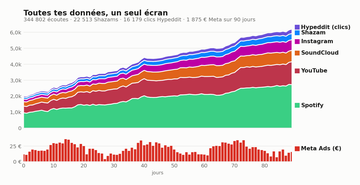
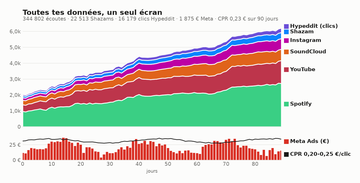
R515 : figures d'exemple — CPR (0,20-0,25 €) superposé à la bande Meta sur son axe (exception nommée, axes depuis 0) ; prévision mesurée en trait plein puis prévue en pointillé, bosse Release Radar après son déclenchement ; barres hachurées « conseillé » retirées, remplacées par « couper à l'entrée 

diff --git a/tools/dev/make_example_charts.py b/tools/dev/make_example_charts.py
@@ -32,8 +32,9 @@ Design rules applied (from the `dataviz` skill, validated not eyeballed)
   `validate_palette.js` on the light surface: all checks PASS, worst adjacent CVD
   ΔE 9.1, normal-vision ΔE 22.9. The contrast WARN on aqua/yellow obliges the
   **relief rule** — hence a visible direct label on every series, always;
-* **one dual axis at most, and only in `meta_x_s4a`** (R438, 2026-10-07): counts on
-  the left, euros on the right, both from zero. It was two stacked panels until the
+* **one dual axis at most, and only in `meta_x_s4a`** (R438, 2026-10-07) and in the
+  Meta band of `dashboard_global` for the CPR (R515): both from zero. In `meta_x_s4a`,
+  counts on the left, euros on the right. It was two stacked panels until the
   owner read them as incomprehensible;
 * text wears text tokens (ink), never the series colour; grid recessive; thin marks;
   2 px surface gap between stacked fills.
@@ -192,7 +193,7 @@ def dashboard_global() -> Path:
     colours = [BLUE, ORANGE, AQUA, YELLOW, SHAZAM, HYPEDDIT]
     spend = np.clip(12 + 18 * np.sin(days / 9) ** 2 + rng.normal(0, 3, 90), 0, None)
 
-    fig, (ax, axm) = plt.subplots(2, 1, figsize=(9, 4.62), sharex=True,
+    fig, (ax, axm) = plt.subplots(2, 1, figsize=(9, 4.77), sharex=True,
                                   gridspec_kw={"height_ratios": [4, 1], "hspace": 0.12})
     ax.stackplot(days, *series.values(), colors=colours,
                  # 2 px surface gap between stacked fills — the segments must not
@@ -214,7 +215,20 @@ def dashboard_global() -> Path:
     axm.set_ylim(0, spend.max() * 1.15)
     axm.yaxis.set_major_formatter(FuncFormatter(lambda v, _p: f"{v:.0f} €"))
     axm.yaxis.set_major_locator(plt.MaxNLocator(2))
-    _series_tag(axm, 1.02, 0.5, "Meta Ads (€)", META)
+    _series_tag(axm, 1.02, 0.72, "Meta Ads (€)", META)
+    # R515 (X3 II) : le CPR, sur SON axe à droite de la bande Meta — un ratio en €
+    # par clic qui oscille autour de 0,20-0,25 €, jamais sur l'axe des dépenses.
+    cpr = 0.225 + 0.025 * np.sin(days / 6) + rng.normal(0, 0.004, 90)
+    axc = axm.twinx()
+    axc.plot(days, cpr, color=INK, linewidth=1.3)
+    axc.set_ylim(0, 0.30)   # from zero, like every dual axis here
+    # No tick labels: they would sit on the series tags. The scale is in the tag.
+    axc.set_yticks([])
+    for side in ("top", "left", "bottom", "right"):
+        axc.spines[side].set_visible(False)
+    axc.tick_params(length=0, labelsize=8, colors=INK_MUTED)
+    axc.grid(False)
+    _series_tag(axm, 1.02, 0.22, "CPR 0,20-0,25 €/clic", INK)
 
     listens = int(sum(s.sum() for k, s in series.items() if k in _LISTEN_SOURCES))
     n_shazam = int(series["Shazam"].sum())
@@ -222,7 +236,8 @@ def dashboard_global() -> Path:
     ax.set_title("Toutes tes données, un seul écran", fontsize=14,
                  fontweight="700", color=INK, loc="left", pad=18)
     ax.text(0, 1.035, f"{_n(listens)} écoutes · {_n(n_shazam)} Shazams · "
-            f"{_n(n_clicks)} clics Hypeddit · {_n(int(spend.sum()))} € Meta sur 90 jours",
+            f"{_n(n_clicks)} clics Hypeddit · {_n(int(spend.sum()))} € Meta · "
+            f"CPR {cpr.mean():.2f} € sur 90 jours".replace(".", ","),
             transform=ax.transAxes, fontsize=10, color=INK_MUTED)
     ax.set_xlim(0, days[-1])
     ax.set_ylim(0, ymax * 1.04)
@@ -231,109 +246,117 @@ def dashboard_global() -> Path:
 
 
 def discover_weekly_prediction() -> Path:
-    """Trois probabilités de déclenchement — Release Radar, DW, Radio — et le palier 100 %.
+    """Trois probabilités de déclenchement — Release Radar, DW, Radio — mesurées puis prévues.
 
-    R455 (2026-10-07, C2) : trois courbes de probabilité, en prévision seule.
-    R480 (2026-10-09, W3) : « identifier le palier de 100 % par playlist (RR 100 %
-    atteint, DW 64 % pas encore, Radio 41 %) ». Le palier est une ligne : la marque
-    d'un NIVEAU, pas d'une série. Release Radar l'atteint — un point plein à l'endroit
-    où il le touche ; les deux autres finissent dessous, et leur étiquette dit ce qui
-    leur manque. Tout est pointillé : rien n'y est mesuré.
+    R455 (2026-10-07, C2) : trois courbes de probabilité. R480 (2026-10-09, W3) : le
+    palier 100 % par playlist, une ligne — la marque d'un NIVEAU, pas d'une série.
+    R515 (2026-10-11, X3 II) : « la bosse Release Radar APRÈS le déclenchement, mesuré
+    en trait plein et prédit en pointillé ». À gauche du trait « aujourd'hui », ce qui
+    a été MESURÉ (plein) ; à droite, la prévision (pointillé, avec sa zone
+    d'incertitude). Release Radar a touché le palier — un point plein — puis la
+    prévision le fait redescendre à la sortie de sa fenêtre (0-35 j) : c'est la bosse.
+    Discover Weekly et Radio montent encore, sous le palier.
     """
+    past = np.linspace(-21, 0, 85)
     ahead = np.linspace(0, 28, 113)   # fine grid: a steep start must stay a curve
-    reach = ahead / ahead[-1]
-    curves = {   # nom: (niveau atteint à J+28, couleur, vitesse)
-        "Release Radar":   (1.00, BLUE, 0.45),
-        "Discover Weekly": (0.64, AQUA, 0.9),
-        "Radio":           (0.41, YELLOW, 1.4),
+    span = np.concatenate([past, ahead[1:]])
+    t = (span + 21) / 49               # 0 → 1 over the whole picture
+
+    def _rr(x: np.ndarray) -> np.ndarray:
+        rise = 100 * (0.10 + 0.95 * np.clip((x + 21) / 15, 0, 1) ** 0.8)
+        fall = np.where(x > 9, 100 * np.exp(-((x - 9) / 11) ** 2), 100)
+        return np.minimum(np.minimum(rise, 100), fall)
+
+    curves = {   # nom: (courbe sur toute la période, couleur)
+        "Release Radar":   (_rr(span), BLUE),
+        "Discover Weekly": (100 * (0.06 + 0.58 * t ** 1.3), AQUA),
+        "Radio":           (100 * (0.04 + 0.37 * t ** 1.8), YELLOW),
     }
-    fig, ax = plt.subplots(figsize=(9, 4.86))
+    cut = len(past)
+    fig, ax = plt.subplots(figsize=(9, 5.38))
     ax.axhline(100, color=INK_MUTED, linewidth=1, linestyle=(0, (5, 4)))
-    ax.text(0.4, 98, "palier 100 % : la playlist est déclenchée", fontsize=9,
-            color=INK_MUTED, va="top")
-    for name, (top, colour, speed) in curves.items():
-        # Release Radar reaches the floor near J+19, then holds: once triggered, it is.
-        if top >= 1.0:
-            p = np.minimum(100, 100 * (0.08 + 0.92 * 1.19 * reach ** speed))
-        else:
-            p = 100 * (0.08 + (top - 0.08) * reach ** speed)
-        ax.plot(ahead, p, color=colour, linewidth=2.2, linestyle=(0, (4, 2.5)))
-        # Once on the floor, no more doubt: the band closes where the curve holds.
-        spread = np.where(p >= 100, 0, 9 * reach)
-        ax.fill_between(ahead, np.clip(p - spread, 0, 100), np.clip(p + spread, 0, 100),
+    # Under the flat stretch where Release Radar holds the floor: nothing crosses it.
+    ax.text(-5.5, 97, "palier 100 % = déclenchée", fontsize=9,
+            color=INK_MUTED, va="top", ha="left")
+    ax.axvline(0, color=GRID, linewidth=1.2)
+    ax.text(0.3, 4, "aujourd'hui", fontsize=9, color=INK_MUTED, ha="left")
+    ax.text(-0.3, 4, "mesuré", fontsize=9, color=INK_MUTED, ha="right")
+    for name, (p, colour) in curves.items():
+        ax.plot(span[:cut], p[:cut], color=colour, linewidth=2.2)
+        fut = p[cut - 1:]
+        ax.plot(ahead, fut, color=colour, linewidth=2.2, linestyle=(0, (4, 2.5)))
+        spread = np.where(fut >= 100, 0, 9 * ahead / ahead[-1])
+        ax.fill_between(ahead, np.clip(fut - spread, 0, 100), np.clip(fut + spread, 0, 100),
                         color=colour, alpha=0.10, linewidth=0)
-        if p[-1] >= 100:
+        if (p >= 100).any():
             hit = int(np.argmax(p >= 100))
-            ax.plot([ahead[hit]], [100], marker="o", markersize=9, color=colour, clip_on=False)
-            tag = f"{name}  100 % ✓"
+            ax.plot([span[hit]], [100], marker="o", markersize=9, color=colour, clip_on=False)
+            tag = f"{name}  déclenché ✓ → {fut[-1]:.0f} %"
         else:
-            tag = f"{name}  {p[-1]:.0f} %"
-        ax.annotate(tag, xy=(ahead[-1], p[-1]), xytext=(ahead[-1] + 0.8, p[-1]),
+            tag = f"{name}  {fut[-1]:.0f} %"
+        ax.annotate(tag, xy=(ahead[-1], fut[-1]), xytext=(ahead[-1] + 0.8, fut[-1]),
                     va="center", fontsize=10, color=INK, fontweight="600",
                     annotation_clip=False)
-        ax.plot([ahead[-1] + 0.35], [p[-1]], marker="s", markersize=7, color=colour,
+        ax.plot([ahead[-1] + 0.35], [fut[-1]], marker="s", markersize=7, color=colour,
                 clip_on=False)
     _frame(ax)
     ax.yaxis.set_major_formatter(FuncFormatter(lambda v, _p: f"{v:.0f} %"))
+    ax.xaxis.set_major_formatter(FuncFormatter(lambda v, _p: f"J{v:+.0f}".replace("J+0", "J0")))
     ax.set_ylim(0, 100)
-    ax.set_xlim(0, ahead[-1])
-    ax.set_xlabel("jours à partir d'aujourd'hui", fontsize=9)
+    ax.set_xlim(span[0], ahead[-1])
+    ax.set_xlabel("jours (avant et après aujourd'hui)", fontsize=9)
     ax.set_title("Tes chances d'entrer dans les playlists algorithmiques",
                  fontsize=14, fontweight="700", color=INK, loc="left", pad=26)
-    ax.text(0, 1.035, "Probabilité prévue, jour par jour — la zone claire est l'incertitude",
+    ax.text(0, 1.035, "Trait plein : mesuré · pointillé : prévu, la zone claire est l'incertitude",
             transform=ax.transAxes, fontsize=10, color=INK_MUTED)
     return _save(fig, "prediction-discover-weekly.png")
 
 
+# Les fenêtres du modèle (`trigger_algo/_common/_verdict.py`, `_PHASES`) : Release
+# Radar 0-35 j, Discover Weekly 35-90 j, Radio après 90 j. Les conseils de la figure de
+# campagne se placent sur ces bornes ; un test vérifie qu'elles restent celles du modèle.
+DW_WINDOW = (35, 90)
+
+
 def meta_x_s4a() -> Path:
-    """La campagne au lancement, puis Discover Weekly et Radio qui déclenchent — UN graphique.
+    """La campagne au lancement, puis Discover Weekly et Radio — UN graphique.
 
     R438 : un seul graphique, un axe € à droite, les deux axes depuis zéro.
-    R480 (2026-10-09, W3) : « Meta € en rouge, CPR, Hypeddit clics (supprimer Hypeddit
-    visites), streams Spotify avec prédiction et déclenchement DW et Radio (deux pics),
-    prévisions qui montent ; montrer l'impact de la campagne au début de la release,
-    puis le déclenchement des algos et les prédictions ». L'histoire se lit de gauche
-    à droite : la dépense (barres rouges) pousse les écoutes dès la sortie, Discover
-    Weekly puis Radio les font bondir, et à droite du trait la projection monte avec
-    le budget conseillé (hachuré). Le CPR est un RATIO : il est écrit, pas tracé.
+    R480 (2026-10-09, W3) : Meta € en rouge, CPR, Hypeddit clics, streams Spotify avec
+    prédiction et déclenchement des algos. Le CPR est un RATIO : il est écrit, pas tracé.
+    R515 (2026-10-11, X3 II) : les barres hachurées « conseillé » sont retirées. À leur
+    place, deux conseils posés sur les fenêtres du modèle (`DW_WINDOW`) : « couper à
+    l'entrée en Discover Weekly » (le jour où DW déclenche, dans 35-90 j) et
+    « relancer avant la fenêtre Radio » (avant 90 j, dans la prévision).
     """
     rng = np.random.default_rng(7)
-    days = np.arange(42)
-    spend = np.zeros(42)
-    spend[0:16] = np.linspace(40, 22, 16) + rng.normal(0, 3, 16)
+    today, horizon = 62, 50
+    days = np.arange(today + 1)
+    dw_day, radio_day = 42, 96         # DW dans sa fenêtre, Radio juste après 90 j
+    relaunch = DW_WINDOW[1] - 10
+    assert DW_WINDOW[0] <= dw_day < DW_WINDOW[1] <= radio_day
+    spend = np.zeros(len(days))
+    spend[:dw_day] = np.linspace(38, 24, dw_day) + rng.normal(0, 3, dw_day)
     camp = spend > 0
-    clicks = np.clip(np.where(camp, spend * 8.5, 6) + rng.normal(0, 4, 42), 0, None)
+    clicks = np.clip(np.where(camp, spend * 4.5, 4) + rng.normal(0, 4, len(days)), 0, None)
     cpr = spend[camp].sum() / clicks[camp].sum()
 
-    # Écoutes : la campagne lève le niveau dès la sortie, puis deux pics — Discover
-    # Weekly à J+18, Radio à J+31 — chacun suivi d'un plateau plus haut que l'avant.
-    dw_day, radio_day = 18, 31
-
-    def _peak(day: int, height: float, settle: float) -> np.ndarray:
-        d = days - day
+    def _peak(x: np.ndarray, day: int, height: float, settle: float) -> np.ndarray:
+        d = x - day
         return np.where(d < 0, 0, height * np.exp(-d / 3.0) + settle * (1 - np.exp(-d / 2.0)))
 
     streams = (180 + 420 * (1 - np.exp(-days / 4.0)) * np.where(camp, 1, 0.82)
-               + _peak(dw_day, 900, 380) + _peak(radio_day, 700, 320)
-               + rng.normal(0, 18, 42))
+               + _peak(days, dw_day, 900, 380) + rng.normal(0, 18, len(days)))
     streams = np.clip(streams, 0, None)
-
-    horizon = 14
-    future = np.arange(days[-1], days[-1] + horizon + 1)
-    reach = (future - days[-1]) / horizon
-    forecast = streams[-1] * (1 + 0.45 * reach ** 0.9)
+    future = np.arange(today, today + horizon + 1)
+    forecast = (streams[-1] * (1 + 0.15 * (future - today) / horizon)
+                + _peak(future, radio_day, 700, 320))
 
     fig, ax = plt.subplots(figsize=(9, 3.82))
     axe = ax.twinx()
     ax.set_zorder(axe.get_zorder() + 1)
     ax.patch.set_visible(False)
-
     axe.bar(days, spend, color=META, width=0.75, alpha=0.55, linewidth=0)
-    # Le budget CONSEILLÉ, à droite du trait, hachuré : une recommandation, jamais
-    # une dépense mesurée (R455).
-    advised = 25.0
-    axe.bar(future[1:], np.full(horizon, advised), color="none", width=0.75,
-            edgecolor=META, hatch="////", linewidth=0.6, alpha=0.7)
     axe.set_ylim(0, spend.max() * 2.4)
     axe.set_ylabel("€ Meta / jour", fontsize=9, color=INK_MUTED)
     for side in ("top", "left", "bottom", "right"):
@@ -348,26 +371,31 @@ def meta_x_s4a() -> Path:
     ax.plot(days, clicks, color=HYPEDDIT, linewidth=1.6)
     _frame(ax)
     top = max(streams.max(), (forecast * 1.14).max())
-    ax.set_ylim(0, top * 1.22)
+    ax.set_ylim(0, top * 1.3)
     ax.set_ylabel("par jour", fontsize=9)
     ax.set_xlabel("jours depuis la sortie", fontsize=9)
     ax.set_xlim(0, future[-1])
     axe.set_xlim(0, future[-1])
-    ax.axvline(days[-1], color=GRID, linewidth=1)
+    ax.axvline(today, color=GRID, linewidth=1)
+    for edge in DW_WINDOW:
+        ax.axvline(edge, color=INK_MUTED, linewidth=0.8, linestyle=(0, (2, 3)))
+    ax.text(DW_WINDOW[0] + 1, top * 1.24, "fenêtre Discover Weekly →",
+            fontsize=8.5, color=INK_MUTED, ha="left", va="center")
+    ax.text(radio_day + 2, forecast[radio_day - today] * 1.16, "Radio (prévu)",
+            fontsize=9, color=INK_MUTED, ha="left")
 
-    for day, name in ((dw_day, "Discover Weekly\ndéclenché"), (radio_day, "Radio\ndéclenché")):
-        y = streams[day + 1]
-        ax.annotate(name, xy=(day + 1, y), xytext=(day + 1, y + top * 0.12),
+    advice = ((dw_day, streams[dw_day + 1], "couper à l'entrée\nen Discover Weekly"),
+              (relaunch, forecast[relaunch - today], "relancer avant\nla fenêtre Radio"))
+    for day, y, text in advice:
+        ax.annotate(text, xy=(day, y), xytext=(day - 9, y + top * 0.14),
                     fontsize=9.5, color=INK, fontweight="600", ha="center",
-                    arrowprops=dict(arrowstyle="-", color=INK_MUTED, linewidth=1))
+                    arrowprops=dict(arrowstyle="->", color=INK_MUTED, linewidth=1))
 
     _series_tag(ax, 0.02, 0.93, "Spotify (écoutes)", BLUE)
     _series_tag(ax, 0.02, 0.84, "Meta Ads (€, à droite)", META)
     _series_tag(ax, 0.02, 0.75, "Hypeddit (clics)", HYPEDDIT)
     ax.text(0.14, 0.53, f"CPR {cpr:.2f} € par clic".replace(".", ","),
             transform=ax.transAxes, fontsize=10, color=INK, fontweight="600", ha="center")
-    ax.text(0.765, 0.34, f"conseillé : {advised:.0f} €/j\n→ prévision en hausse",
-            transform=ax.transAxes, fontsize=9.5, color=INK, fontweight="600", ha="left")
 
     ax.set_title("Optimiser ton budget Meta Ads pour maximiser tes streams",
                  fontsize=14, fontweight="700", color=INK, loc="left", pad=26)

diff --git a/tests/test_the_welcome_figures_tell_the_three_promises.py b/tests/test_the_welcome_figures_tell_the_three_promises.py
@@ -14,8 +14,14 @@ Owner, 2026-10-07 (voice comments C1-C3):
 The figure is captured at `_save`, so the test reads the Axes the PNG is made of, not
 the source text that builds it.
 
+Owner, 2026-10-11 (X3 II, R515): the CPR over the Meta band; the prediction measured
+(solid) then forecast (dashed) with Release Radar's bump after its trigger; the hatched
+advised bars replaced by two annotations placed on the model's windows (`_verdict._PHASES`).
+
 Mutation record (2026-10-07): Shazam removed from the stack → red; Radio drawn solid →
 red; the advised-budget bars removed → red.
+(2026-10-11, R515): Release Radar held at 100 % → red; « couper » moved to day 30 → red;
+the CPR made flat → red; hatched Meta bars → red.
 """
 from __future__ import annotations
 
@@ -50,28 +56,59 @@ def _texts(ax) -> str:
 def test_shazam_and_hypeddit_are_stacked_and_meta_spend_sits_apart(built):
     """R455 : Shazam is the 5th band. R480 (W3) : Hypeddit clicks the 6th ; Meta is in
     euros, another unit, so it gets its own panel instead of joining the stack."""
-    ax, axm = built("dashboard_global").axes
+    ax, axm, *_ = built("dashboard_global").axes
     bands = [c for c in ax.collections if type(c).__name__ in {"PolyCollection", "FillBetweenPolyCollection"}]
     assert len(bands) == 6, f"{len(bands)} stacked bands, the owner asked for six"
     assert "Shazam" in _texts(ax) and "Hypeddit" in _texts(ax)
     assert axm.patches and "Meta" in _texts(axm), "Meta spend has no panel of its own"
 
 
-def test_the_prediction_is_three_forecast_probabilities(built):
+def test_the_overview_overlays_the_cpr_on_the_meta_band(built):
+    """R515 (X3 II) : a CPR curve around 0,20-0,25 €, on its own axis over the Meta band."""
+    fig = built("dashboard_global")
+    _ax, axm, axc = fig.axes
+    (cpr,) = [ln for ln in axc.lines if len(ln.get_xdata()) > 2]
+    y = cpr.get_ydata()
+    assert 0.19 <= y.min() and y.max() <= 0.26 and y.max() - y.min() > 0.02, "CPR does not oscillate in 0,20-0,25 €"
+    assert axc.get_shared_x_axes().joined(axc, axm), "the CPR is not drawn over the Meta band"
+    assert "CPR" in _texts(axm)
+
+
+def test_the_prediction_is_measured_then_forecast_with_the_release_radar_bump(built):
+    """R455 three probabilities; R515 (X3 II) : measured solid, forecast dashed, and
+    Release Radar's bump AFTER its trigger — it touches 100 % in the measured part, then
+    the forecast brings it back down."""
     (ax,) = built("discover_weekly_prediction").axes
     curves = [ln for ln in ax.lines if len(ln.get_xdata()) > 2]
-    assert len(curves) == 3
-    assert all(ln.get_linestyle() != "-" for ln in curves), "a solid line reads as measured"
+    measured = [ln for ln in curves if ln.get_linestyle() == "-"]
+    forecast = [ln for ln in curves if ln.get_linestyle() != "-"]
+    assert len(measured) == 3 and len(forecast) == 3
+    assert all(ln.get_xdata().max() <= 0 for ln in measured), "a measured line runs into the future"
+    assert all(ln.get_xdata().min() >= 0 for ln in forecast), "a forecast line runs into the past"
+    rr_past, rr_future = measured[0].get_ydata(), forecast[0].get_ydata()
+    assert rr_past.max() >= 100, "Release Radar is not triggered in the measured part"
+    assert rr_future[-1] < 50, "no bump: Release Radar never comes back down"
     assert ax.get_ylim() == (0, 100)
     labels = _texts(ax)
     assert all(name in labels for name in ("Discover Weekly", "Release Radar", "Radio"))
 
 
-def test_the_campaign_figure_advises_a_budget_after_today(built):
+def test_the_campaign_advice_follows_the_model_windows(built):
+    """R515 (X3 II) : the hatched « conseillé » bars are gone ; two annotations sit on the
+    model's windows — cut where Discover Weekly triggers (inside 35-90 d), relaunch
+    before the Radio window (before 90 d, in the forecast)."""
+    from src.dashboard.views.trigger_algo._common._verdict import _PHASES
+
     fig = built("meta_x_s4a")
     ax, axe = fig.axes
-    last_observed = max(ln.get_xdata()[-1] for ln in ax.lines if ln.get_linestyle() == "-"
-                        and len(ln.get_xdata()) > 2)
-    advised = [p for p in axe.patches if p.get_x() > last_observed and p.get_height() > 0]
-    assert advised, "no budget drawn after the last observed day"
+    assert not [p for p in axe.patches if p.get_hatch()], "the hatched advised bars are back"
+    dw = next(p for p in _PHASES if "Discover Weekly" in p[2])
+    advice = {a.get_text().replace("\n", " "): a.xy[0] for a in ax.texts if hasattr(a, "xy")}
+    cut = next(x for t, x in advice.items() if t.startswith("couper"))
+    relaunch = next(x for t, x in advice.items() if t.startswith("relancer"))
+    assert dw[0] <= cut < dw[1], f"« couper » at day {cut}, outside the DW window {dw[:2]}"
+    today = max(ln.get_xdata()[-1] for ln in ax.lines if ln.get_linestyle() == "-"
+                and len(ln.get_xdata()) > 2)
+    assert today < relaunch < dw[1], f"« relancer » at day {relaunch}, not before the Radio window"
+    assert "Discover Weekly" in " ".join(advice) and "Radio" in " ".join(advice)
     assert "budget" in ax.get_title(loc="left").lower()

diff --git a/tests/test_the_setup_page_is_reachable_and_on_top.py b/tests/test_the_setup_page_is_reachable_and_on_top.py
@@ -1113,17 +1113,21 @@ def test_the_charts_never_use_a_second_y_axis():
     for ONE graph. One exception, scoped: `meta_x_s4a` may carry one euro axis, and
     BOTH its axes must start at zero — the setting that stops a scale from being
     pinned where it manufactures a correlation.
+
+    R515 (2026-10-11, X3 II): the owner asked for the CPR « superposée à la bande Meta €
+    sur son axe » in `dashboard_global` — a second exception, under the same rule.
     """
+    exceptions = {"meta_x_s4a": {"ax", "axe"}, "dashboard_global": {"axm", "axc"}}
     body = CHARTS.read_text(encoding="utf-8")
     tree = ast.parse(body)
     for fn in (n for n in ast.walk(tree) if isinstance(n, ast.FunctionDef)):
         twins = [n.lineno for n in ast.walk(fn)
                  if isinstance(n, ast.Call) and isinstance(n.func, ast.Attribute)
                  and n.func.attr in {"twinx", "twiny"}]
-        if fn.name != "meta_x_s4a":
+        if fn.name not in exceptions:
             assert not twins, f"{fn.name}(): a dual-axis chart at line(s) {twins}"
             continue
-        assert len(twins) <= 1, f"meta_x_s4a(): more than one extra axis {twins}"
+        assert len(twins) <= 1, f"{fn.name}(): more than one extra axis {twins}"
         if not twins:
             continue
         zero_based = {n.func.value.id for n in ast.walk(fn)
@@ -1131,8 +1135,8 @@ def test_the_charts_never_use_a_second_y_axis():
                       and n.func.attr == "set_ylim" and isinstance(n.func.value, ast.Name)
                       and n.args and isinstance(n.args[0], ast.Constant)
                       and n.args[0].value == 0}
-        assert {"ax", "axe"} <= zero_based, (
-            f"meta_x_s4a(): both y axes must start at 0, found {sorted(zero_based)}")
+        assert exceptions[fn.name] <= zero_based, (
+            f"{fn.name}(): both y axes must start at 0, found {sorted(zero_based)}")
 
 
 def test_the_welcome_mail_embeds_its_image_and_reads_without_it():
